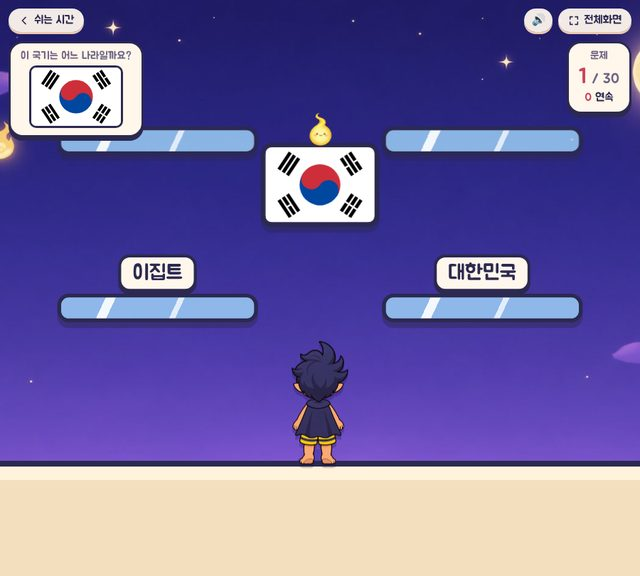
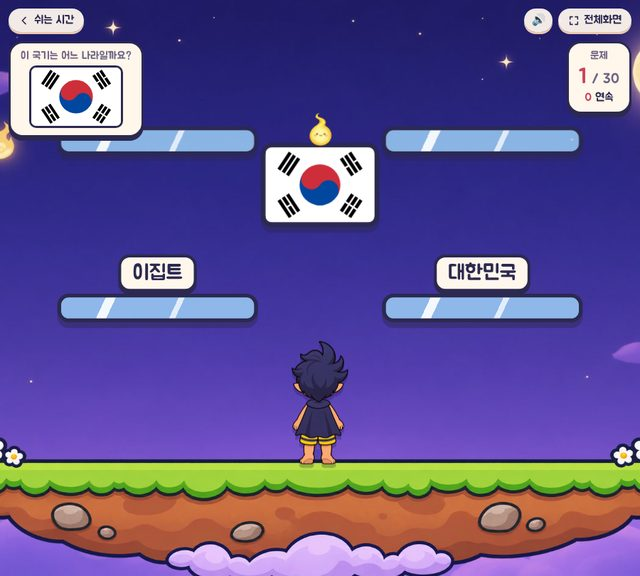
국기 맞히기: 출발 바닥을 구름 위 떠 있는 섬 그림으로
Claude-Session: https://claude.ai/code/session_01TJDp5XfiAh3Qwncvaa55oH

Changed region(s): [[0.0, 0.75, 1.0, 1.0]]

diff --git a/flags/index.html b/flags/index.html
@@ -25,7 +25,7 @@
   #stage { position:fixed; inset:0; overflow:hidden; background:#2a2860 url(img/bg.jpg) center / cover no-repeat; touch-action:none; }
   #world { position:absolute; left:0; top:0; width:640px; height:0; transform-origin:0 0; }
   #world > * { position:absolute; }
-  .floor { width:1440px; height:900px; background:linear-gradient(#fff3dc 0 14px, #f3dfbd 14px 100%); border-top:6px solid var(--ink); }
+  .floor { width:760px; } .floor img { width:100%; display:block; }
   .plat { width:210px; height:30px; border:4px solid var(--ink); border-radius:12px; box-shadow:0 6px 0 rgba(44,41,80,.45);
     background:linear-gradient(115deg, rgba(255,255,255,0) 0 22%, rgba(255,255,255,.9) 22% 27%, rgba(255,255,255,0) 27% 58%, rgba(255,255,255,.75) 58% 61%, rgba(255,255,255,0) 61%), rgba(160,212,250,.82);
     transition:background-color .2s; }
@@ -784,8 +784,8 @@ function makeEl(cls, html) {
 }
 
 function createFloor() {
-  floorEl = makeEl('floor');
-  place(floorEl, -400, 0);
+  floorEl = makeEl('floor', '<img src="img/ground.png" alt="">');
+  place(floorEl, (W - 760) / 2, 28);   // 풀밭 윗면이 꼬비 발 높이(0)에 오도록
 }
 
 function createPlatform(cx, y, country) {
